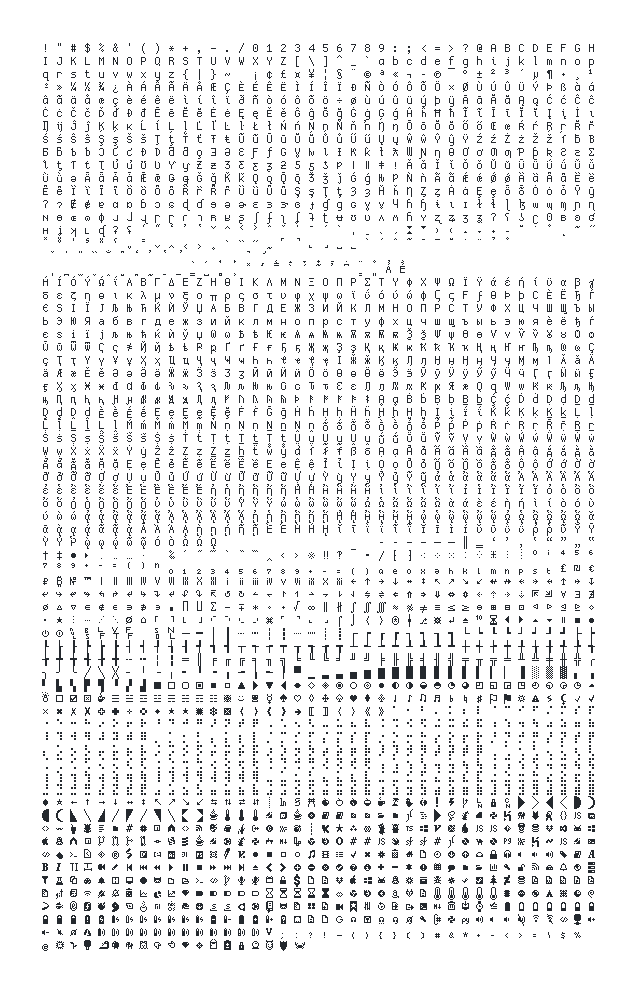
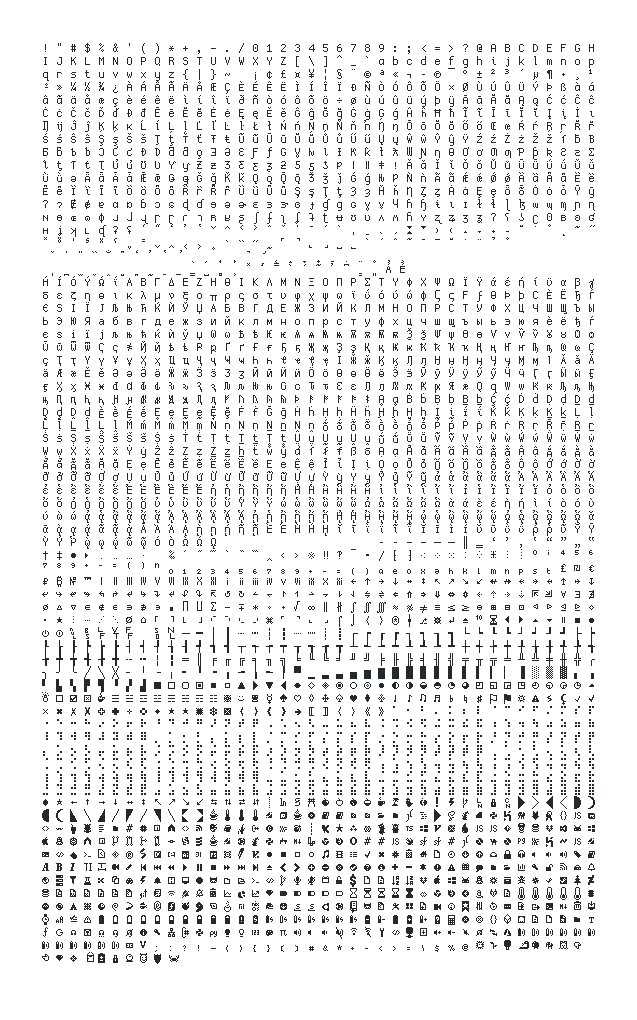
v.1.15.0
Closes #65.

Changed region(s): [[0.0597, 0.2463, 0.9545, 0.9543], [0.0597, 0.0308, 0.9545, 0.2463]]

diff --git a/cozette_builder/scanner.py b/cozette_builder/scanner.py
@@ -1,7 +1,7 @@
 import re
 from pathlib import Path
 from typing import Dict, Iterable, List, Set
-from unicodedata import name as uniname
+from unicodedata import name as uniname, east_asian_width as eaw
 
 UESCAPE = re.compile(r"\\[uU]([0-9A-Fa-f]{4,5})")
 
@@ -43,7 +43,7 @@ def print_codepoints_for_changelog(
             if "VARIATION SELECTOR" in name:
                 continue
             name = " " + name
-        print(f"**{ch} U+{cp:04X}{name}**", end="")
+        print(f"**{ch} U+{cp:04X}{name}** {eaw(ch)}", end="")
         if print_source_files:
             print(f": {' '.join(str(p) for p in codepoints[cp])}")
         else:

diff --git a/CHANGELOG.md b/CHANGELOG.md
@@ -5,6 +5,48 @@ All notable changes to this project will be documented in this file.
 The format is based on [Keep a Changelog], and this project adheres to
 [Semantic Versioning].
 
+## [1.15.0]
+
+### Added
+
+"LSP related icons". I'm not sure where these come from, but I'm told 
+they'll be helpful for programming.
+
+-  (U+E716)
+-  (U+F071)
+-  (U+F0C4)
+-  (U+F0E7)
+-  (U+F15D)
+-  (U+F15E)
+-  (U+F425)
+-  (U+F449)
+-  (U+F475)
+-  (U+F49E)
+-  (U+F4BE)
+-  (U+F529)
+-  (U+F5EB)
+-  (U+F631)
+-  (U+F658)
+-  (U+F659)
+-  (U+F668)
+-  (U+F6A6)
+-  (U+F71C)
+-  (U+F74A)
+-  (U+F783)
+-  (U+F794)
+-  (U+F7FB)
+-  (U+F816)
+-  (U+F834)
+-  (U+F835)
+-  (U+F89F)
+-  (U+F8D7)
+-  (U+F8FE)
+- 襁 (U+FAB6 CJK COMPATIBILITY IDEOGRAPH-FAB6)
+- ﰮ (U+FC2E ARABIC LIGATURE FEH WITH HAH ISOLATED FORM)
+- ﳤ (U+FCE4 ARABIC LIGATURE TEH WITH HEH MEDIAL FORM)
+- ﴲ (U+FD32 ARABIC LIGATURE SHEEN WITH HEH INITIAL FORM)
+- ﵒ (U+FD52 ARABIC LIGATURE TEH WITH HAH WITH JEEM INITIAL FORM)
+ 
 ## [1.14.0]
 
 Big thanks to [cpkio](https://github.com/cpkio) for contributing this one!
@@ -1810,7 +1852,8 @@ Still broken on Windows.
 
 [Keep a Changelog]: https://keepachangelog.com/en/1.0.0/
 [Semantic Versioning]: https://semver.org/spec/v2.0.0.html
-[unreleased]: https://github.com/slavfox/Cozette/compare/v.1.14.0...HEAD
+[unreleased]: https://github.com/slavfox/Cozette/compare/v.1.15.0...HEAD
+[1.15.0]: https://github.com/slavfox/Cozette/compare/v.1.14.0...v.1.15.0
 [1.14.0]: https://github.com/slavfox/Cozette/compare/v.1.13.0...v.1.14.0
 [1.13.0]: https://github.com/slavfox/Cozette/compare/v.1.12.0...v.1.13.0
 [1.12.0]: https://github.com/slavfox/Cozette/compare/v.1.11.3...v.1.12.0
